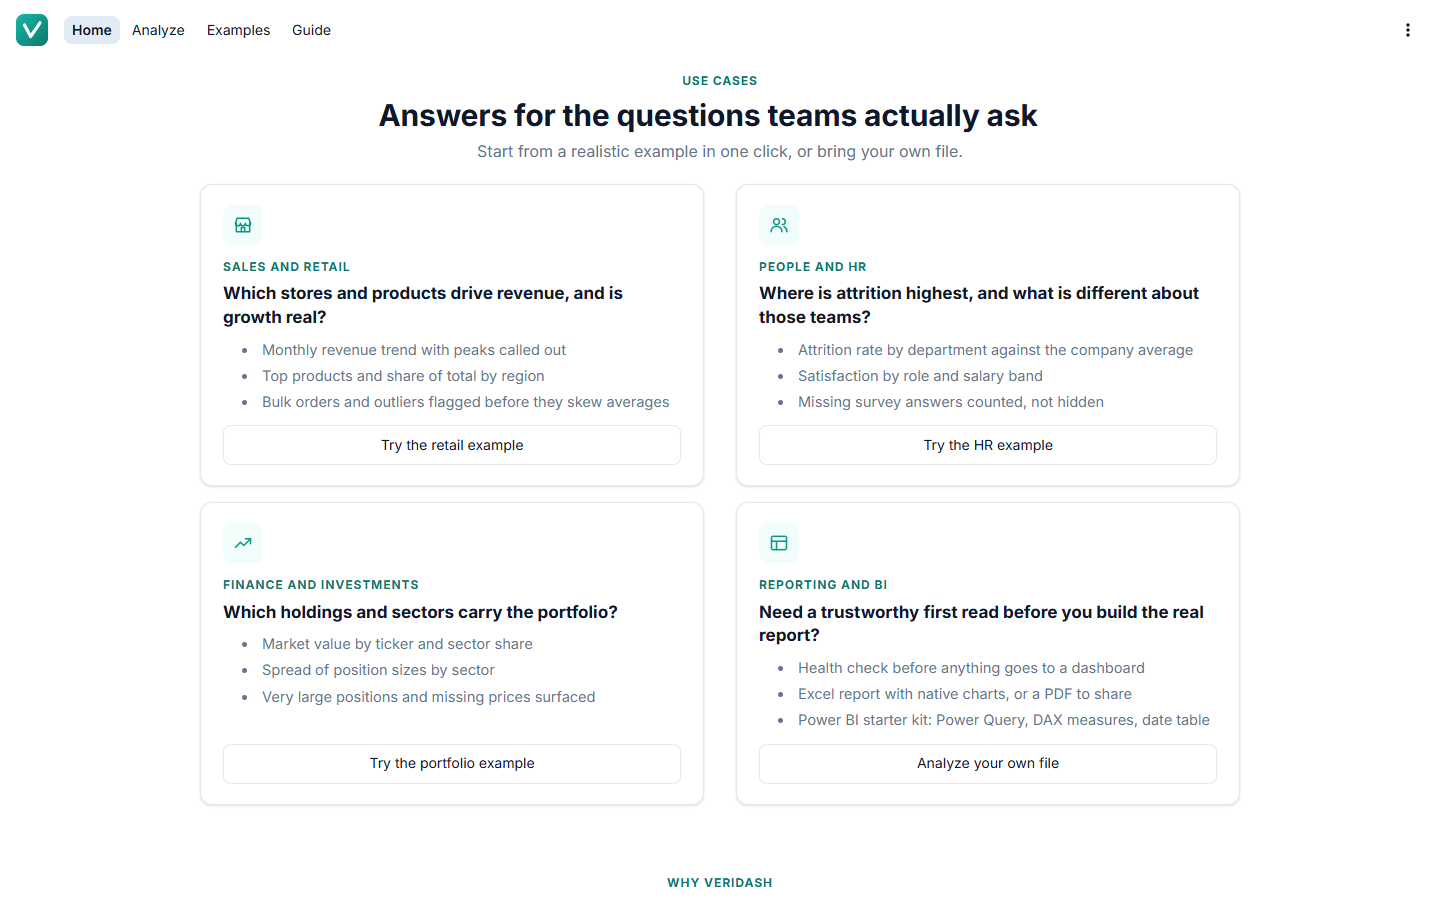
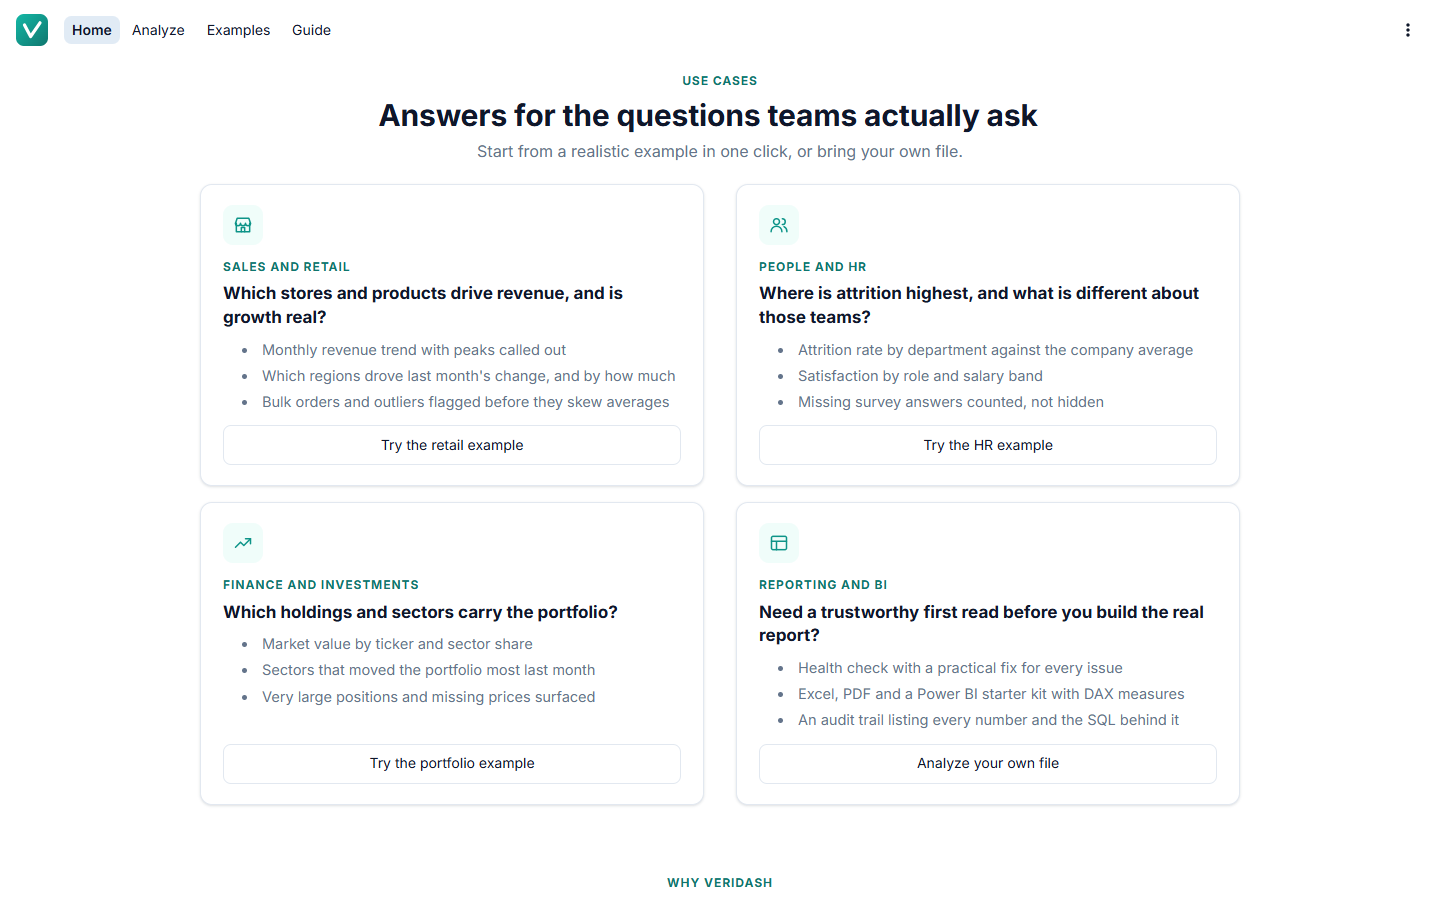
docs: document the new features and refresh screenshots
Adds design decisions 10 (change breakdown only for additive metrics) and 11
(languages that keep the fact-check working), updates the architecture for
the audit trail and change breakdown, updates the test count, and refreshes
the Home, Overview, Ask and Export screenshots.

Changed region(s): [[0.5625, 0.7156, 0.8438, 0.8089], [0.1875, 0.4044, 0.4688, 0.4356], [0.1875, 0.7156, 0.4062, 0.7778]]

diff --git a/docs/DESIGN_DECISIONS.md b/docs/DESIGN_DECISIONS.md
@@ -12,6 +12,8 @@ Each section ends with where the decision lives in the code.
 7. [Health score design](#7-health-score-design)
 8. [A Power BI kit instead of a .pbix](#8-a-power-bi-kit-instead-of-a-pbix)
 9. [Defence in depth for user SQL](#9-defence-in-depth-for-user-sql)
+10. [Explaining change only where the parts add up](#10-explaining-change-only-where-the-parts-add-up)
+11. [Other languages without weakening the fact-check](#11-other-languages-without-weakening-the-fact-check)
 
 ---
 
@@ -200,3 +202,40 @@ quoted identifiers are masked before keyword checks, so values such as "load" in
 
 **In the code.** `ai/nl2sql.py` (`validate_sql`) and `core/engine.py`. `tests/test_nl2sql.py` covers 16 rejection
 cases, and `tests/test_recommender.py` proves the sandbox blocks file reads and cannot be switched off.
+
+## 10. Explaining change only where the parts add up
+
+**Context.** "Revenue rose 19.6% last month" invites the next question: which stores, regions or products moved
+it? Analysts answer that with a contribution (or variance) breakdown.
+
+**Decision.** The "What drove the latest change" chart compares the last two *complete* periods, per group, in a
+single query, and only for totals and counts. For those, the group changes add up to the total change, which
+the tests check. Averages are skipped because a group's change in average does not add up to the overall
+change; showing it would look precise while misleading.
+
+**Alternatives considered.** *A full mix-and-rate decomposition for averages* (correct, but hard to read for a
+non-analyst) or *letting the AI explain the change* (exactly the kind of arithmetic the AI is not allowed to do).
+
+**Trade-off.** Files whose main metric is an average (such as satisfaction scores) get no breakdown. Groups with
+a missing label are excluded, and the chart says how many rows that affects.
+
+**In the code.** `core/recommender.py` (`_drivers`) and `tests/test_recommender.py`.
+
+## 11. Other languages without weakening the fact-check
+
+**Context.** Many users read more comfortably in their own language, but the fact-checker parses numbers such
+as $785.3K and 34.6%. A Spanish or French text would normally write 34,6 %, which would not parse.
+
+**Decision.** AI insights can be written in eight languages, and the prompt requires every number to keep the
+fact pack's display format (period decimals, comma thousands, $ and %) in all of them. Column names and group
+labels stay as they appear in the data, so labels with digits are still recognised. The list is limited to
+languages the PDF font can render.
+
+**Alternatives considered.** *Locale-aware parsing in the fact-checker* (more natural text, but a second number
+grammar to verify and keep in sync) or *machine-translating the English output* (a second model call whose
+numbers would also need checking).
+
+**Trade-off.** Numbers look slightly foreign in some languages (34.6% instead of 34,6 %). Rule-based insights
+and the interface stay in English.
+
+**In the code.** `ai/insights_ai.py` (`LANGUAGES`, `system_prompt`) and `tests/test_ai.py`.

diff --git a/docs/ARCHITECTURE.md b/docs/ARCHITECTURE.md
@@ -26,7 +26,7 @@ flowchart TD
     end
     subgraph Out["Interface and exports"]
         UI[Streamlit views + ui/]
-        X[exports/<br/>excel.py, pdf.py, powerbi.py]
+        X[exports/<br/>excel.py, pdf.py, powerbi.py, audit.py]
     end
     U --> L --> P --> H
     P --> E --> R --> F
@@ -56,7 +56,8 @@ flowchart TD
    categories are chosen from priority lists and data shape; sidebar overrides win.
 6. **Compute** (`core/engine.py`, `core/recommender.py`). The typed DataFrame is registered in an in-memory
    DuckDB connection with external access disabled and locked. Each KPI and chart runs its own SQL; the result,
-   a one-sentence insight and a list of facts are stored on the spec.
+   a one-sentence insight and a list of facts are stored on the spec. For totals and counts over time, one
+   query also breaks the latest change down by group.
 7. **Fact pack** (`core/facts.py`). Dataset, health, KPI, chart and profile facts are collected, each with a
    stable dotted ID such as `kpi.metric` or `top.1.share_pct`.
 8. **Insights.** Rule-based insights are always generated from the fact pack. With a key, `ai/insights_ai.py`
@@ -65,8 +66,8 @@ flowchart TD
 9. **Ask your data** (`ai/nl2sql.py`). The question plus schema context goes to Gemini, which returns one query.
    `validate_sql` checks it and adds a `LIMIT`; the engine runs it with a timeout. Users can also type SQL.
 10. **Exports** (`exports/`). Built lazily when a download button is clicked, fully in memory: an xlsxwriter
-    workbook (`in_memory` mode) with native charts, an fpdf2 PDF with matplotlib images, and a zip with CSV, M
-    and DAX.
+    workbook (`in_memory` mode) with native charts, an fpdf2 PDF with matplotlib images, a zip with CSV, M
+    and DAX, and an audit-trail CSV listing every fact with the SQL that produced it.
 
 ## Module map
 
@@ -74,7 +75,7 @@ flowchart TD
 |---|---|---|
 | `core/` | Loading, typing, health, SQL engine, recommendations, facts, rule-based insights, pipeline | pandas, NumPy, DuckDB |
 | `ai/` | Gemini client, AI insights, fact-checking, natural-language SQL | `core/`, google-genai |
-| `exports/` | Excel, PDF and Power BI outputs | `core/`, `ai/factcheck`, xlsxwriter, fpdf2, matplotlib |
+| `exports/` | Excel, PDF, Power BI and audit-trail outputs | `core/`, `ai/factcheck`, xlsxwriter, fpdf2, matplotlib |
 | `ui/` | Theme, components, Plotly figures, session state and caching, tab views | `core/`, `ai/`, `exports/`, Streamlit, Plotly |
 | `views/` | The four pages: Home, Analyze, Examples, Guide | `ui/` |
 | `app.py` | Page config, theme injection, navigation | `ui/`, `views/` |

diff --git a/README.md b/README.md
@@ -207,7 +207,7 @@ flowchart LR
 | Exports | The Excel file opens with all sheets, the PDF has two to four pages, the Power BI kit has every file |
 | App | Every page renders, all three examples run end to end without a key, and edge-case files do not break |
 
-All 200 automated tests pass, and the codebase is lint-clean under Ruff.
+All 217 automated tests pass on every push (GitHub Actions), and the codebase is lint-clean under Ruff.
 
 ## Roadmap
 
